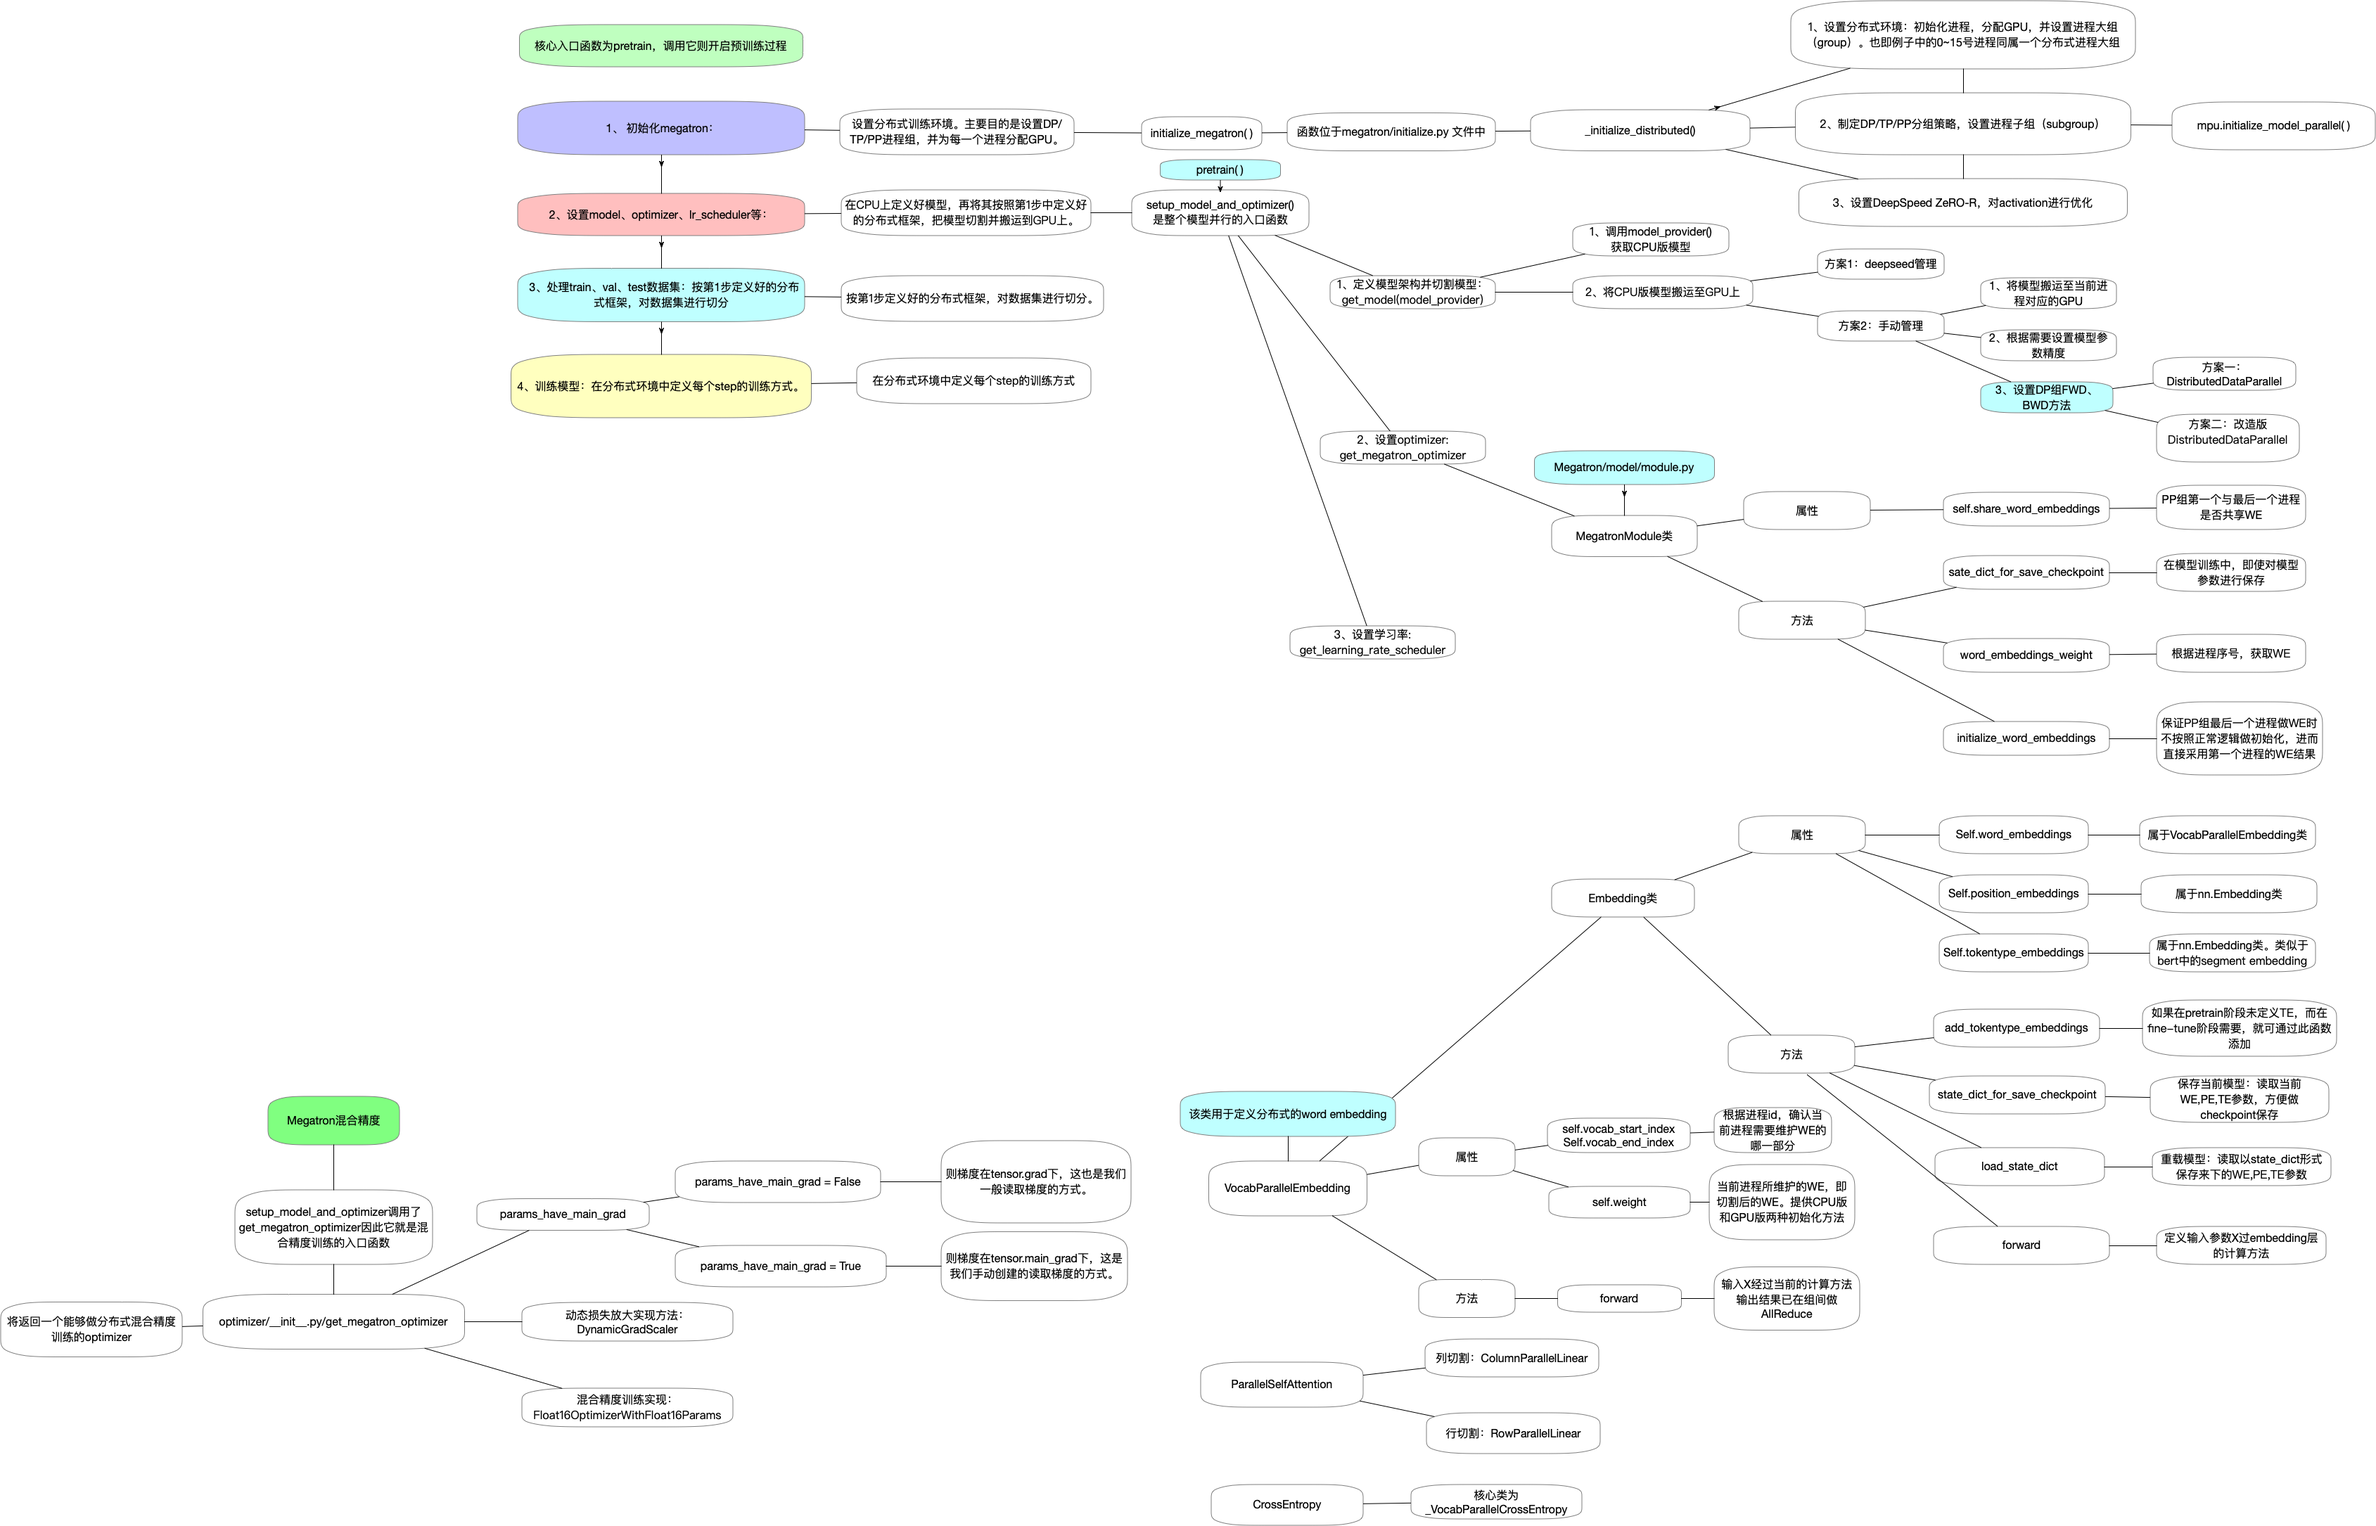
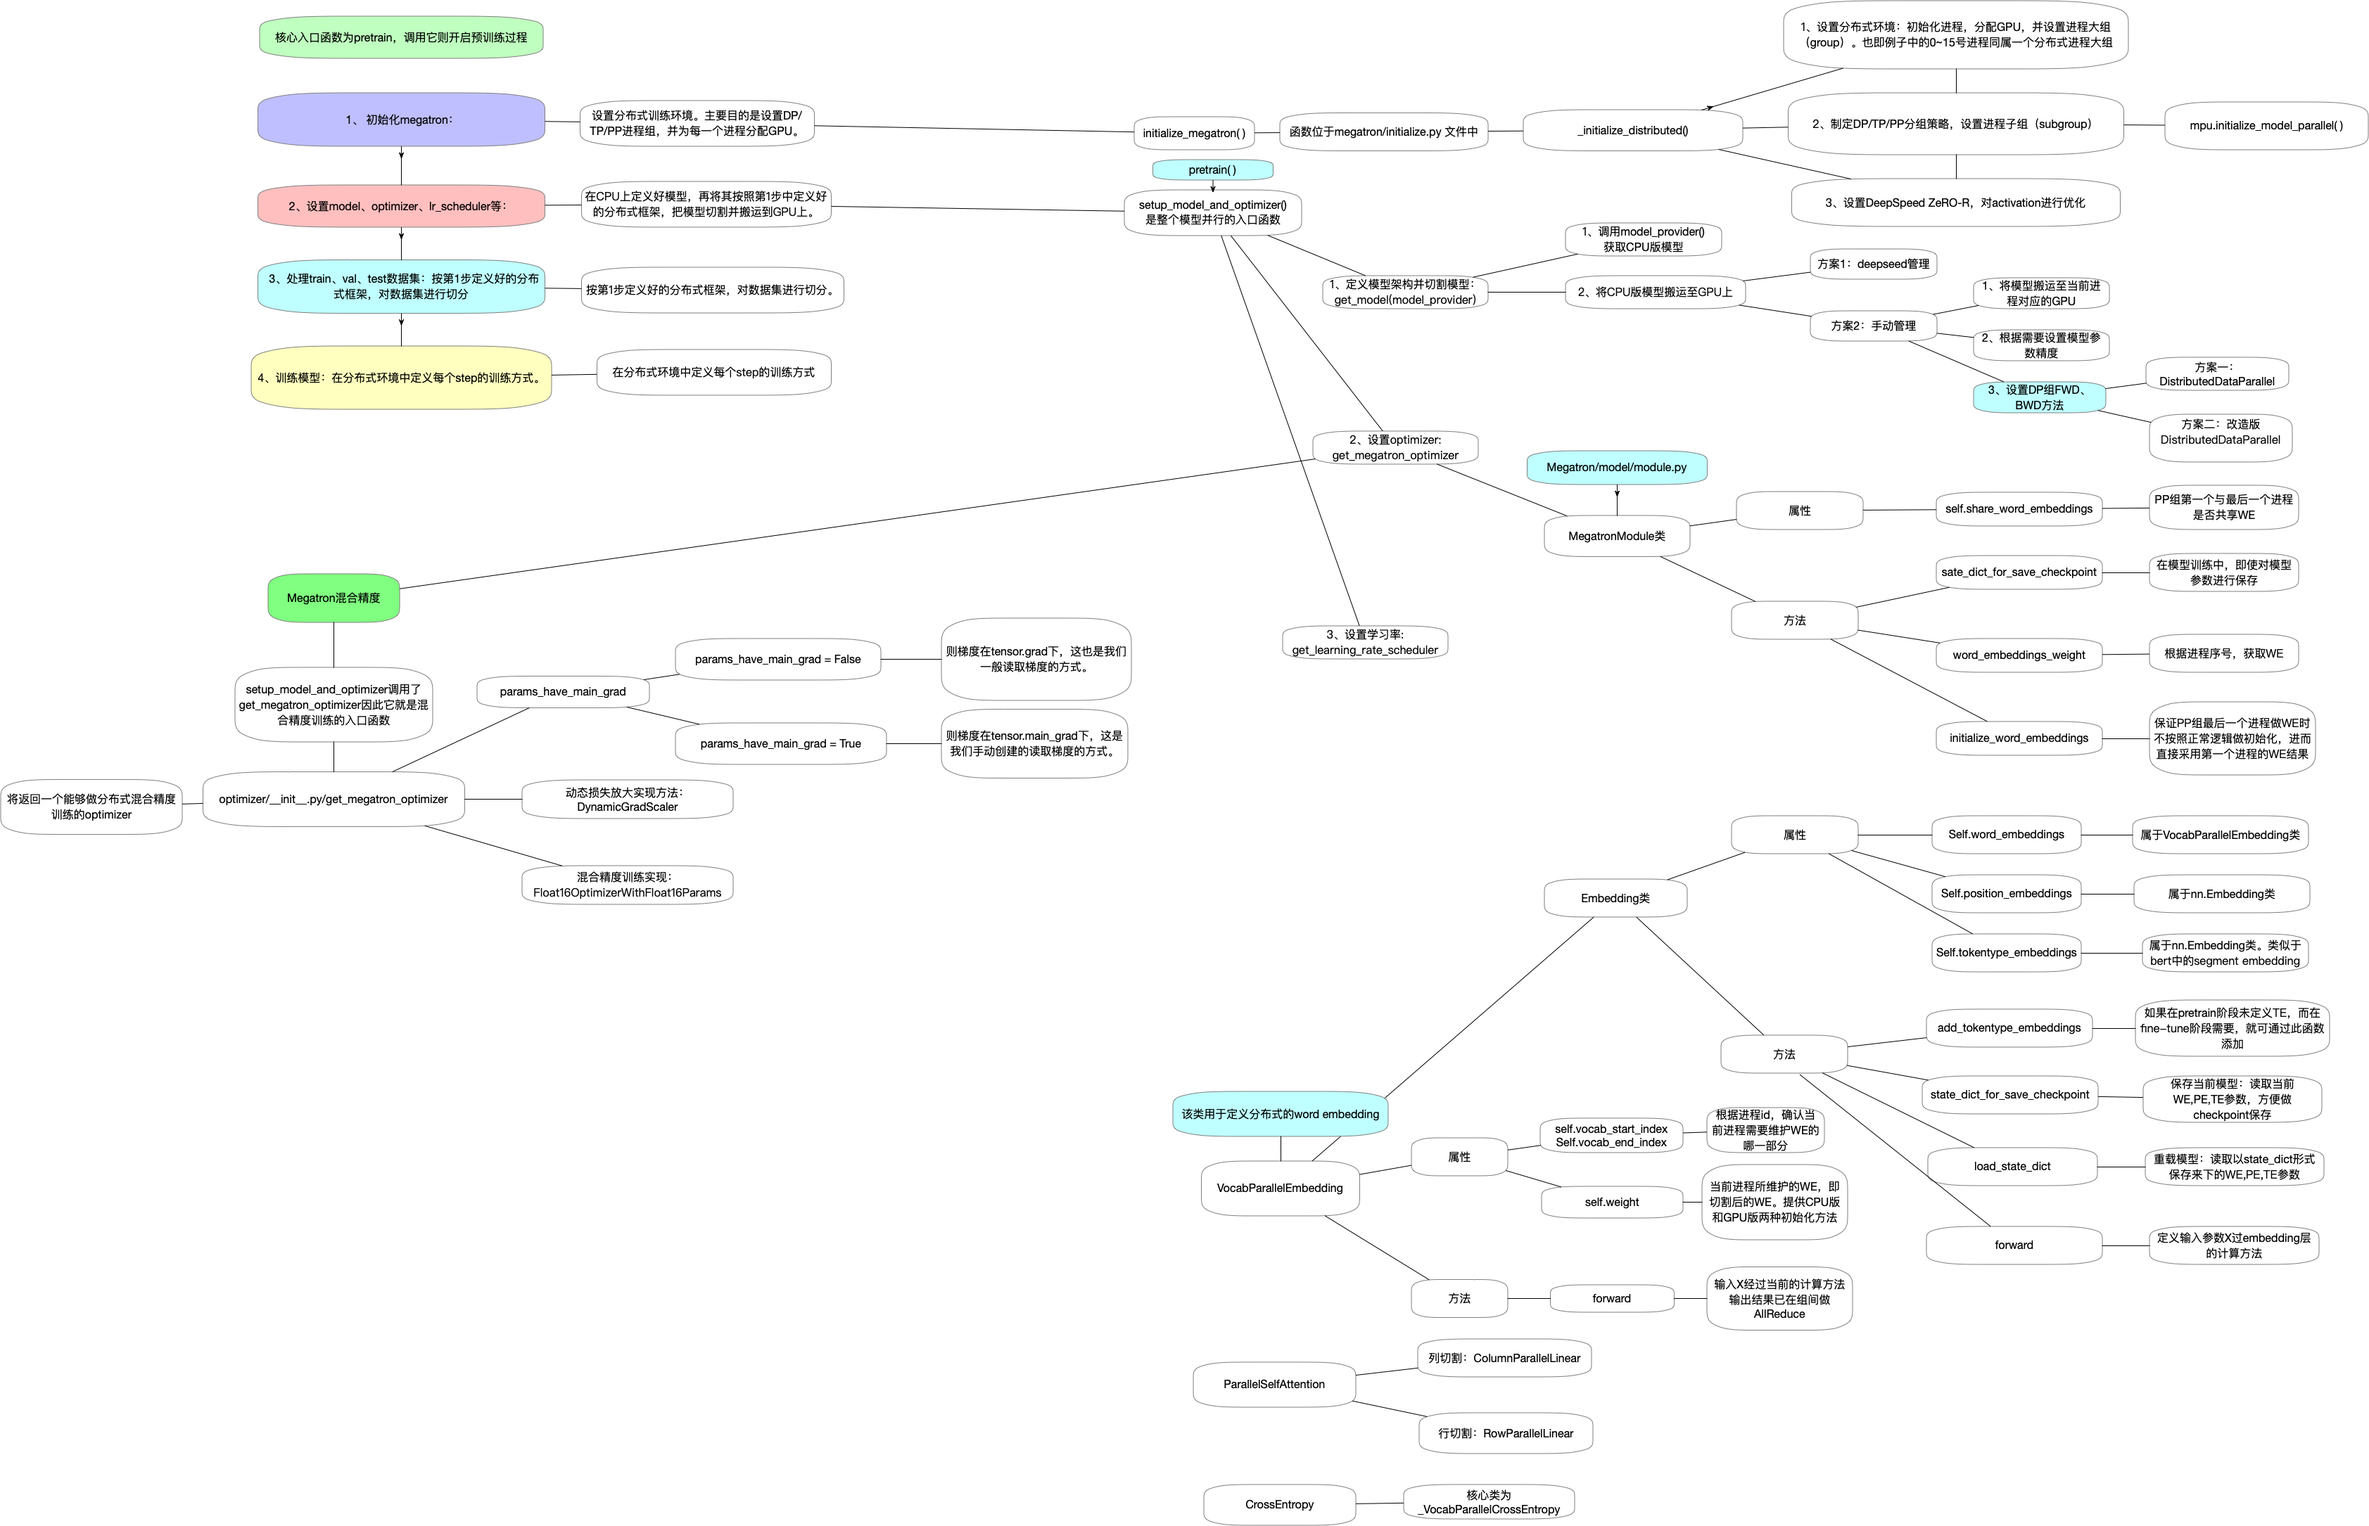
更新猛猿

diff --git a/README.md b/README.md
@@ -144,7 +144,7 @@
 * [图解Vllm V1系列1：整体流程](https://zhuanlan.zhihu.com/p/1900126076279160869)
 
 ## megatron
-![mengyuan-megatron](https://github.com/ztaoing/DeepRL_Steps/blob/main/mengyuan_megatron.png?v=2)
+![mengyuan-megatron](https://github.com/ztaoing/DeepRL_Steps/blob/main/mengyuan_megatron.png?v=3)
 * [1、Megatron源码解读1，分布式环境初始化](https://zhuanlan.zhihu.com/p/629121480)
 * [2、Megatron源码解读2，模型并行](https://zhuanlan.zhihu.com/p/634377071)
 * [3、Megatron源码解读3，分布式混合精度训练](https://zhuanlan.zhihu.com/p/662700424)
